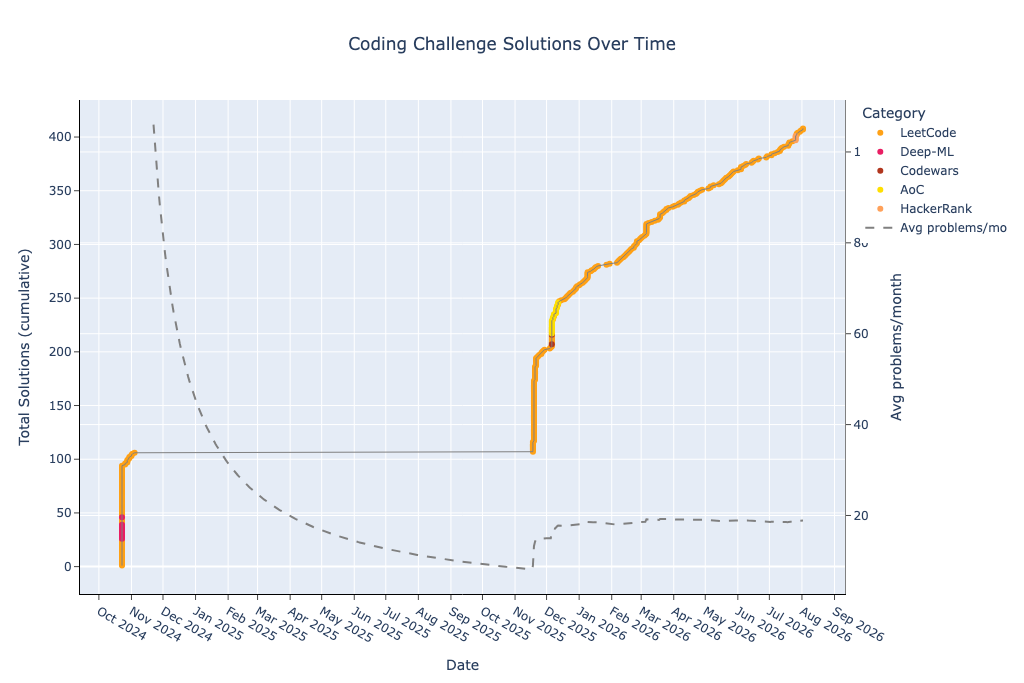
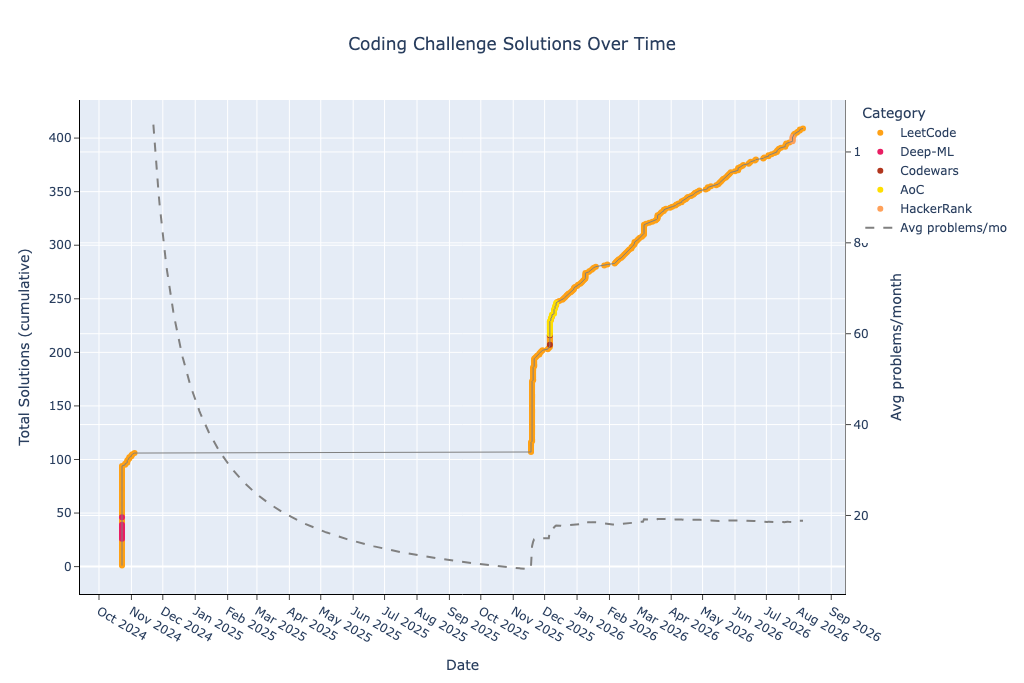
Regenerate README

diff --git a/README.md b/README.md
@@ -41,9 +41,9 @@ This repository contains a collection of coding problems solved on various platf
 | hackerrank-easy | 2 | 17 | 8 | 2 | 0 | 4 | 1 | 0 | 0 | 0 | 2 | 0 | 0 | 0 | 0 | 0 | 0 | 0 |
 | hackerrank-medium | 3 | 57 | 19 | 4 | 1 | 3 | 7 | 0 | 0 | 0 | 6 | 0 | 0 | 2 | 0 | 0 | 1 | 0 |
 | leetcode-easy | 129 | 2106 | 16 | 175 | 6 | 169 | 165 | 45 | 6 | 15 | 209 | 4 | 6 | 15 | 1 | 0 | 16 | 0 |
-| leetcode-medium | 198 | 5061 | 25 | 348 | 7 | 508 | 377 | 114 | 22 | 46 | 428 | 6 | 40 | 63 | 11 | 28 | 28 | 7 |
+| leetcode-medium | 199 | 5095 | 25 | 351 | 7 | 512 | 383 | 115 | 22 | 48 | 432 | 7 | 43 | 64 | 11 | 29 | 28 | 7 |
 | leetcode-hard | 36 | 1150 | 31 | 66 | 5 | 109 | 98 | 24 | 11 | 17 | 83 | 3 | 7 | 15 | 8 | 5 | 9 | 9 |
-| **total** | 408 | 9815 | 24 | 702 | 20 | 929 | 816 | 189 | 40 | 91 | 837 | 26 | 64 | 111 | 22 | 38 | 57 | 16 |
+| **total** | 409 | 9849 | 24 | 705 | 20 | 933 | 822 | 190 | 40 | 93 | 841 | 27 | 67 | 112 | 22 | 39 | 57 | 16 |
 
 ---
 
@@ -51,6 +51,7 @@ This repository contains a collection of coding problems solved on various platf
 
 | Date | Type | Challenge | Problem | Solution |
 | --- | --- | --- | --- | --- |
+| 2026-08-05 | LeetCode Medium | Remove Methods From Project | [leetcode.com](https://leetcode.com/problems/remove-methods-from-project/) | [python](leetcode/medium/3310.%20Remove%20Methods%20From%20Project.py) |
 | 2026-08-02 | LeetCode Medium | Stone Game | [leetcode.com](https://leetcode.com/problems/stone-game/) | [python](leetcode/medium/877.%20Stone%20Game.py) |
 | 2026-08-02 | LeetCode Medium | Predict the Winner | [leetcode.com](https://leetcode.com/problems/predict-the-winner/) | [python](leetcode/medium/486.%20Predict%20the%20Winner.py) |
 | 2026-07-31 | LeetCode Medium | Minimum Number of Pushes to Type Word II | [leetcode.com](https://leetcode.com/problems/minimum-number-of-pushes-to-type-word-ii/) | [python](leetcode/medium/3016.%20Minimum%20Number%20of%20Pushes%20to%20Type%20Word%20II.py) |
@@ -60,7 +61,6 @@ This repository contains a collection of coding problems solved on various platf
 | 2026-07-27 | LeetCode Easy | Maximum Product of Three Numbers | [leetcode.com](https://leetcode.com/problems/maximum-product-of-three-numbers/) | [python](leetcode/easy/628.%20Maximum%20Product%20of%20Three%20Numbers.py) |
 | 2026-07-26 | HackerRank Medium | gridland-metro | [hackerrank.com](https://www.hackerrank.com/challenges/gridland-metro) | [python](hackerrank/medium/gridland-metro.py) |
 | 2026-07-26 | HackerRank Medium | the-power-sum | [hackerrank.com](https://www.hackerrank.com/challenges/the-power-sum) | [python](hackerrank/medium/the-power-sum.py) |
-| 2026-07-26 | HackerRank Medium | sherlock-and-anagrams | [hackerrank.com](https://www.hackerrank.com/challenges/sherlock-and-anagrams) | [python](hackerrank/medium/sherlock-and-anagrams.py) |
 # Advent of Code
 ### 2025
 | Day | Challenge | Time | Space | Problem | Solution |
@@ -478,6 +478,7 @@ This repository contains a collection of coding problems solved on various platf
 | 3227 | Vowels Game in a String | O(n) | O(1) | [leetcode.com](https://leetcode.com/problems/vowels-game-in-a-string/) | [python](leetcode/medium/3227.%20Vowels%20Game%20in%20a%20String.py) |
 | 3228 | Maximum Number of Operations to Move Ones to the End | O(n) | O(1) | [leetcode.com](https://leetcode.com/problems/maximum-number-of-operations-to-move-ones-to-the-end) | [python](leetcode/medium/3228.%20Maximum%20Number%20of%20Operations%20to%20Move%20Ones%20to%20the%20End.py) |
 | 3286 | Find a Safe Walk Through a Grid | O(n * m) | O(n * m) | [leetcode.com](https://leetcode.com/problems/find-a-safe-walk-through-a-grid/) | [python](leetcode/medium/3286.%20Find%20a%20Safe%20Walk%20Through%20a%20Grid.py) |
+| 3310 | Remove Methods From Project | O(n^2) | O(n) | [leetcode.com](https://leetcode.com/problems/remove-methods-from-project/) | [python](leetcode/medium/3310.%20Remove%20Methods%20From%20Project.py) |
 | 3346 | Maximum Frequency of an Element After Performing Operations I | O(n) | O(1) | [leetcode.com](https://leetcode.com/problems/maximum-frequency-of-an-element-after-performing-operations-i/) | [python](leetcode/medium/3346.%20Maximum%20Frequency%20of%20an%20Element%20After%20Performing%20Operations%20I.py) |
 | 3350 | Adjacent Increasing Subarrays Detection II | O(n) | O(1) | [leetcode.com](https://leetcode.com/problems/adjacent-increasing-subarrays-detection-ii/) | [python](leetcode/medium/3350.%20Adjacent%20Increasing%20Subarrays%20Detection%20II.py) |
 | 3381 | Maximum Subarray Sum With Length Divisible by K | O(n) | O(1) | [leetcode.com](https://leetcode.com/problems/maximum-subarray-sum-with-length-divisible-by-k/) | [python](leetcode/medium/3381.%20Maximum%20Subarray%20Sum%20With%20Length%20Divisible%20by%20K.py) |

diff --git a/CHANGES.md b/CHANGES.md
@@ -4,6 +4,7 @@
 
 | Date | Type | Challenge | Problem | Solution |
 | --- | --- | --- | --- | --- |
+| 2026-08-05 | LeetCode Medium | Remove Methods From Project | [leetcode.com](https://leetcode.com/problems/remove-methods-from-project/) | [python](leetcode/medium/3310.%20Remove%20Methods%20From%20Project.py) |
 | 2026-08-02 | LeetCode Medium | Stone Game | [leetcode.com](https://leetcode.com/problems/stone-game/) | [python](leetcode/medium/877.%20Stone%20Game.py) |
 | 2026-08-02 | LeetCode Medium | Predict the Winner | [leetcode.com](https://leetcode.com/problems/predict-the-winner/) | [python](leetcode/medium/486.%20Predict%20the%20Winner.py) |
 | 2026-07-31 | LeetCode Medium | Minimum Number of Pushes to Type Word II | [leetcode.com](https://leetcode.com/problems/minimum-number-of-pushes-to-type-word-ii/) | [python](leetcode/medium/3016.%20Minimum%20Number%20of%20Pushes%20to%20Type%20Word%20II.py) |
@@ -13,4 +14,3 @@
 | 2026-07-27 | LeetCode Easy | Maximum Product of Three Numbers | [leetcode.com](https://leetcode.com/problems/maximum-product-of-three-numbers/) | [python](leetcode/easy/628.%20Maximum%20Product%20of%20Three%20Numbers.py) |
 | 2026-07-26 | HackerRank Medium | gridland-metro | [hackerrank.com](https://www.hackerrank.com/challenges/gridland-metro) | [python](hackerrank/medium/gridland-metro.py) |
 | 2026-07-26 | HackerRank Medium | the-power-sum | [hackerrank.com](https://www.hackerrank.com/challenges/the-power-sum) | [python](hackerrank/medium/the-power-sum.py) |
-| 2026-07-26 | HackerRank Medium | sherlock-and-anagrams | [hackerrank.com](https://www.hackerrank.com/challenges/sherlock-and-anagrams) | [python](hackerrank/medium/sherlock-and-anagrams.py) |
